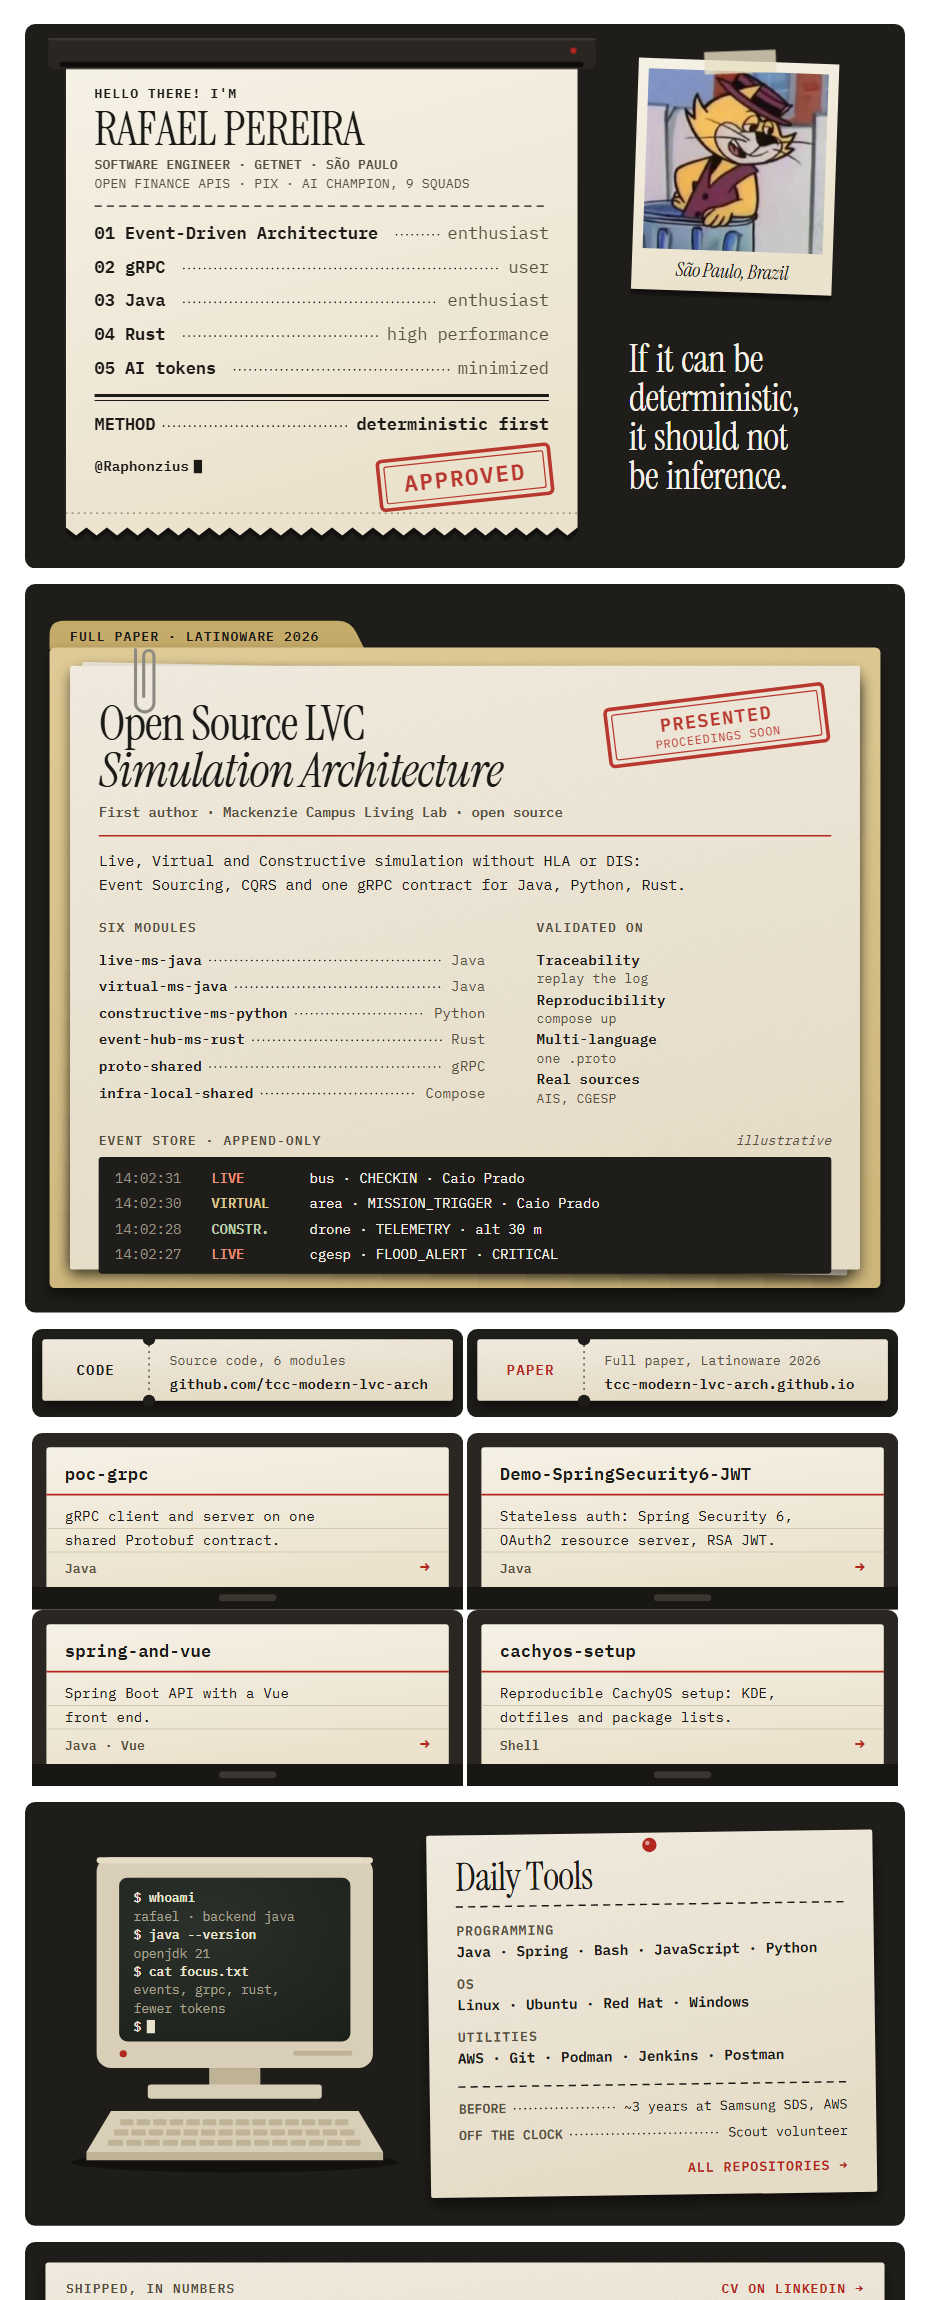
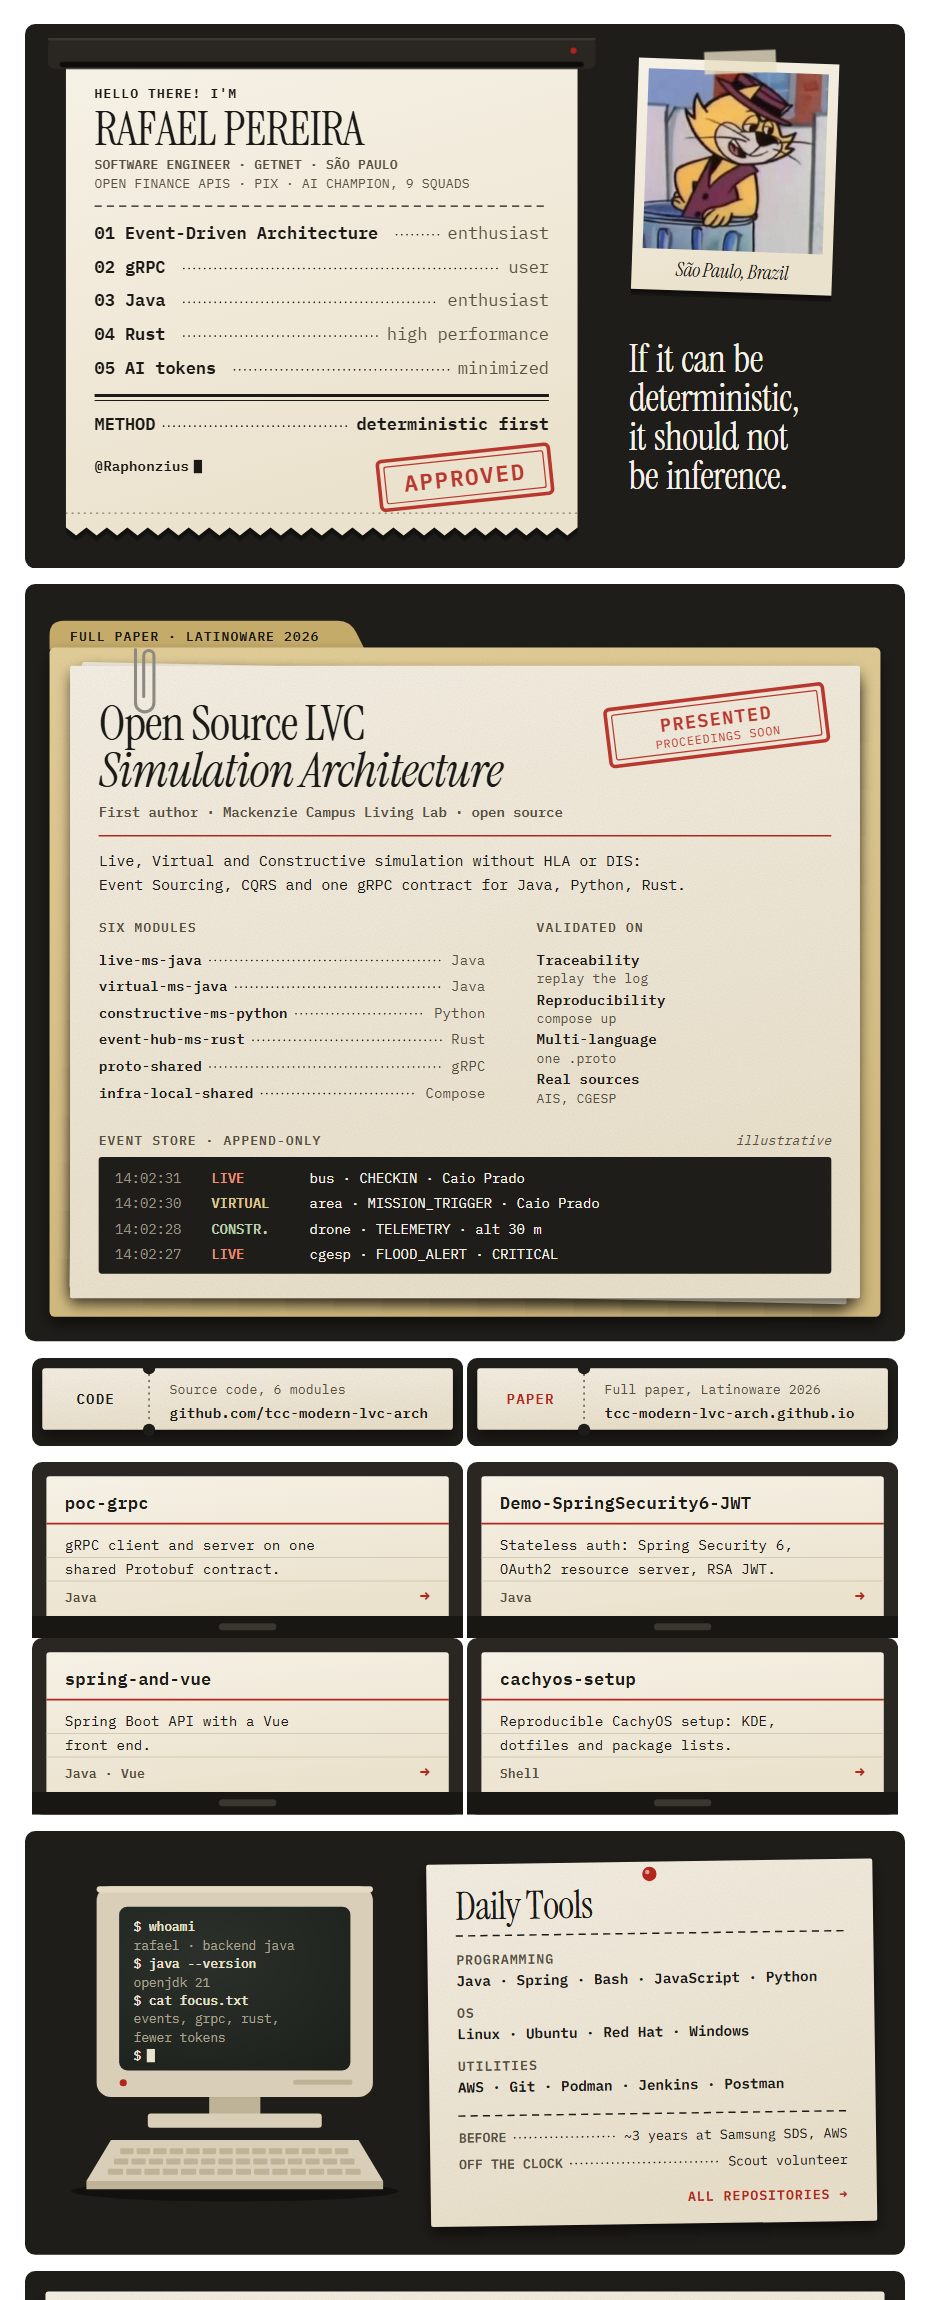
oldschool: keep the event log inside the LVC paper

Changed region(s): [[0.0312, 0.5248, 0.9978, 1.0]]

diff --git a/gen/themes/oldschool.py b/gen/themes/oldschool.py
@@ -225,7 +225,7 @@ LOG = [("14:02:31", "LIVE", "bus · CHECKIN · Caio Prado"),
 
 def lvc() -> str:
     sid = "osLvc"
-    H = 712
+    H = 740  # paper bottom = 80 + (H - 122) = 698; log window ends at 674, so ~24px margin
     b = [f'<rect width="{W}" height="{H}" rx="10" fill="{DESK}"/>']
     b.append(f'<path d="M24,64 V50 Q24,36 38,36 H306 Q318,36 324,48 L332,64 Z" fill="{FOLD_E}"/>')
     b.append(sheet(sid, f'<rect x="24" y="62" width="{W-48}" height="{H-86}" rx="5"', "F"))
